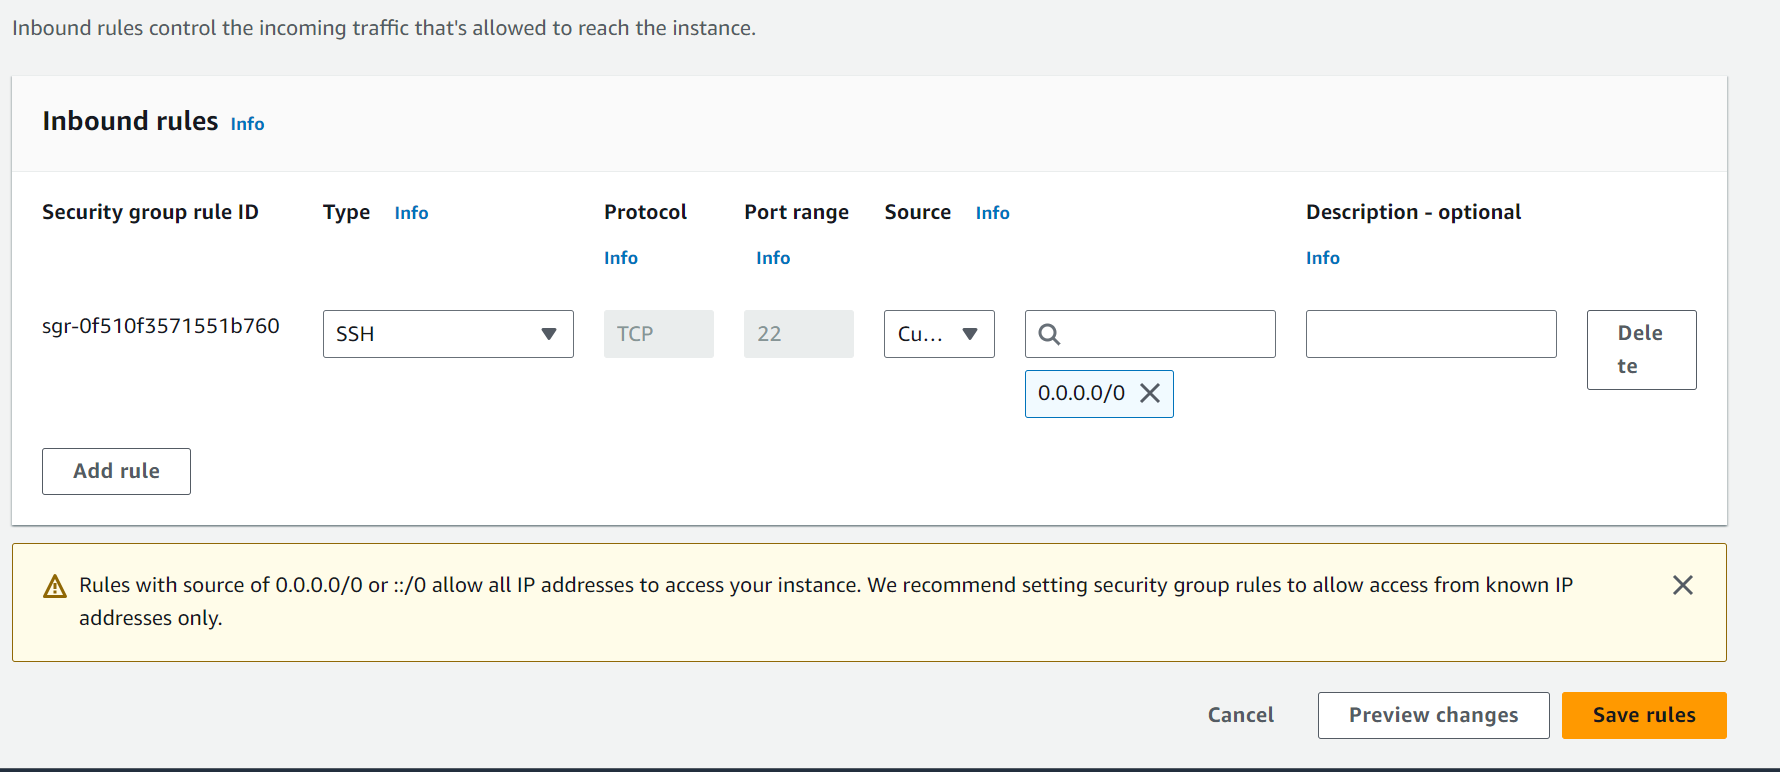
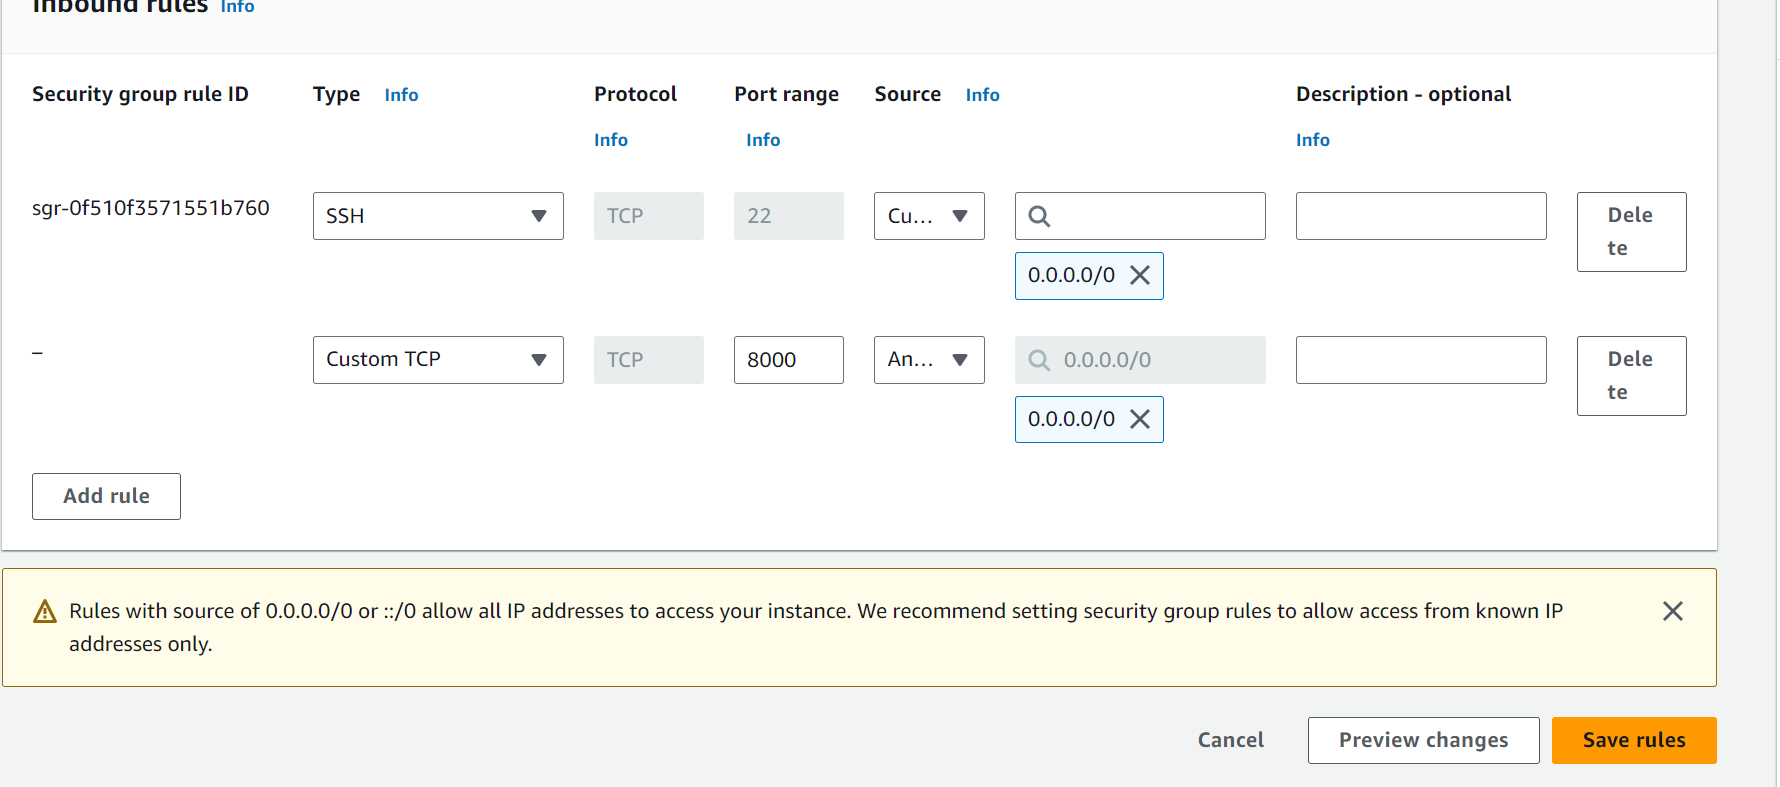
Test Successful

diff --git a/LOAD_BALANCER/Loadbalancer.md b/LOAD_BALANCER/Loadbalancer.md
@@ -209,6 +209,7 @@ Copy Below Code
 
 3. You should find a page on the browser like so:
 
+![Images](Load_balancer_Images/EC2instance.PNG)
 
 Step 5: Configuring Nginx as a Load Balancer
 Provision a new EC2 instance running ubuntu 22.04. Make sure port 80 is opened to accept traffic from
@@ -220,25 +221,29 @@ Install Nginx into the instance using the command below:
 Copy Below Code
 
 `sudo apt update -y && sudo apt install nginx -y`
+
 Verify that Nginx is installed with the command below:
 
 Copy Below Code
 
 `sudo systemctl status nginx`
 
+![Images](Load_balancer_Images/ngistatus.PNG)
 
 
+open Nginx configuration file with the command below:
 
-Goen Nginx configuration file with the command below:
 Copy Below Code
-sudo vi /etc/nginx/conf.d/loadbalancer.cont
+
+`sudo vi /etc/nginx/conf.d/loadbalancer.cont`
+
 Paste the configuration file below to configure nginx to act like a load balancer. A screenshot of an example config
 file is shown below: Make sure you edit.the file and provide necessary information like your server IP address etc.
 
 Copy Below Code
 
         
-        upstream backend_servers {
+        `upstream backend_servers {
 
             # your are to replace the public IP and Port to that of your webservers
             server 127.0.0.1:8000; # public IP and port for webserser 1
@@ -257,7 +262,7 @@ Copy Below Code
                 proxy_set_header X-Forwarded-For $proxy_add_x_forwarded_for;
             }
         }
-    
+    `
 
 
 addresses and ports of your backend servers. proxy. pass inside the location block: sets up the load balancing.
@@ -269,6 +274,7 @@ Copy Below Code
 
 `sudo nginx -t`
 
+![Images](Load_balancer_Images/testsuccess.png)
 
 
 If there are no errors, restart Nginx to laod the new configuration with the command below:
